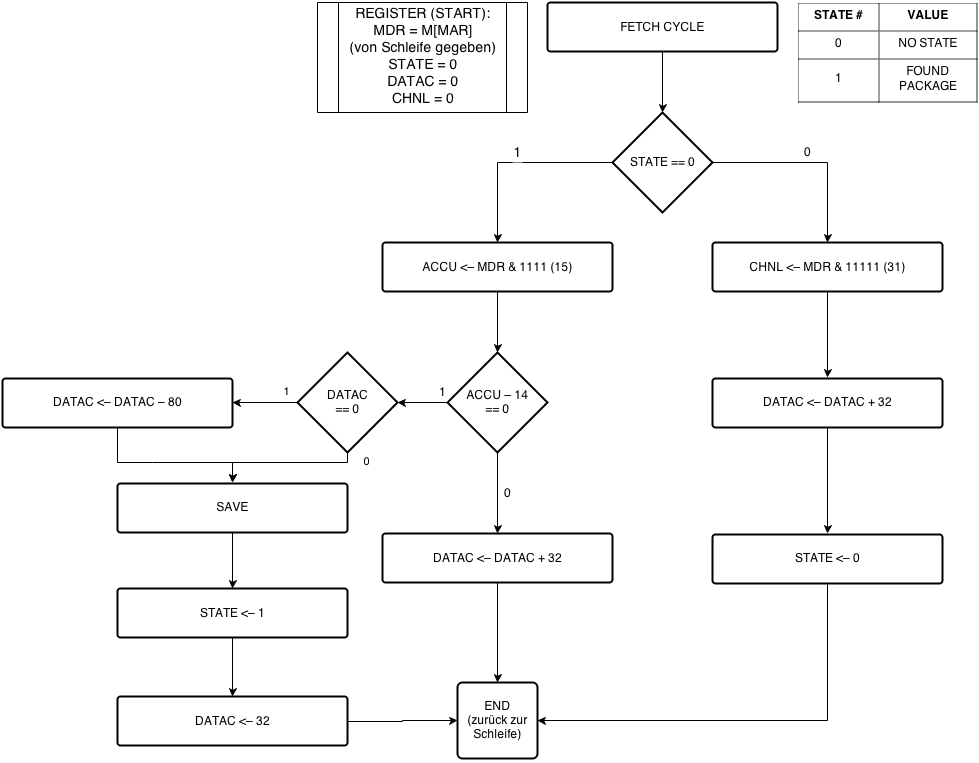
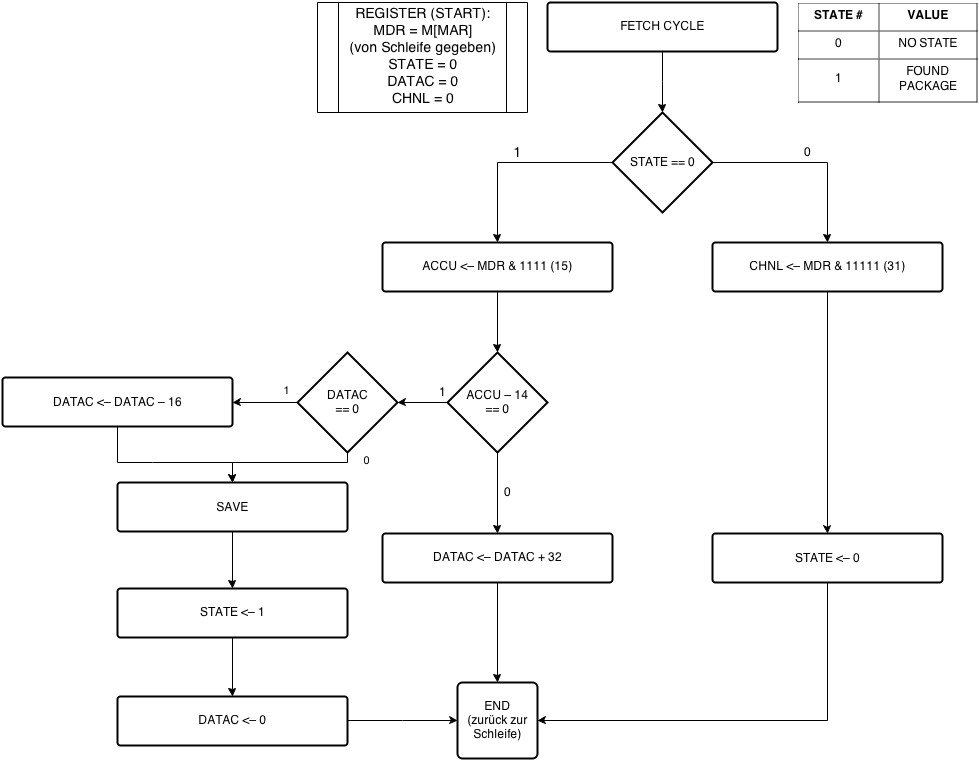
analyse algo verbessert und dokumentiert

diff --git a/docs/dokumentation.tex b/docs/dokumentation.tex
@@ -95,11 +95,14 @@ und mit wir \texttt{ADDR} bezeichnen werden. Bei jeder Iteration wird der Wert a
 inkrementiert und es wird zur{\"u}ck zum Schleifenkopf gesprungen (Siehe Abb. 1 im Anhang).
 
 \subsection{Analyse der Daten}
-Die Analyse der Daten kann als einfacher endlicher Automat mit 2 Zuständen betrachtet werden. Im ersten Zustand wurde noch kein Paket
-gefunden und es wird mit Hilfe einer Bitmaske ($1111_{2} = 15_{10}$) nach der Anfangssequenz gesucht. Wenn die Startsequenz gefunden wurde wird der Zustand
-verändert und es wird auf die nächste Zahl aus dem HS gewartet. Wurde bereits ein Paketanfang gefunden, wird nun die Kanalnummer
-extrahiert, im Register \texttt{ACCU} abgelegt und damit dem Speicherprogramm übergeben. Nach dem Speichervorgang überspringt ein weiteres Mikroprogramm
-die weiteren Bits des Paketes (Siehe Abb. 2 im Anhang).
+Die Analyse der Daten kann als einfacher endlicher Automat mit 2 Zuständen betrachtet werden (0, 1). Im ersten Zustand (0)
+wurde noch kein Paket gefunden und es wird mit Hilfe einer Bitmaske ($1111_{2} = 15_{10}$) nach der Anfangssequenz gesucht. 
+Wenn die Startsequenz gefunden wurde wird der Zustand verändert (zu 1) und es wird auf die nächste Zahl aus dem HS gewartet. 
+In der nächsten Zahl aus dem HS befindet sich die Kanalnummer. Diese wird mit einer weiteren Bitmaske ausgelesen
+und im Register \texttt{CHNL} abgelegt.
+Wurde sowohl ein Packetanfang als auch eine Kanalnummer gefunden, so wird nun die Länge des Datenfeldes gezählt und im Register \texttt{DATAC} gespeichert, bis erneut die Startsequenz gefunden wird.
+Wurde eine neue Startsequenz gefunden so wird von der Länge des Daten 16 abgezogen (16 Bits Overhead des Headers) und
+es wird an das Speicherprogramm angegeben und es wird wieder in den zweiten Zustand (1) gewechselt.
 
 \subsection{Ablegen der Daten im Hauptspeicher}
 Ziel der Analyse ist es die Länge aller Datenpakete für jeden Kanal zu z{\"a}hlen und in eine Tabelle im Hauptspeicher abzulegen.
